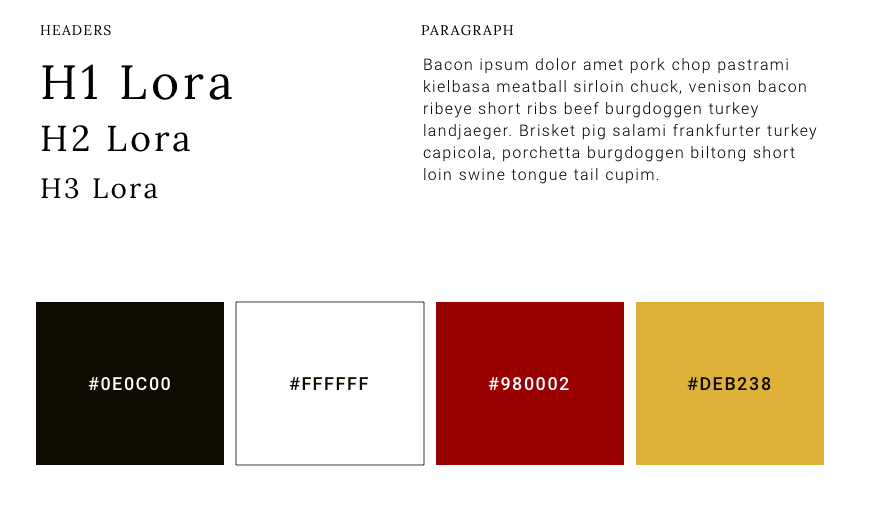
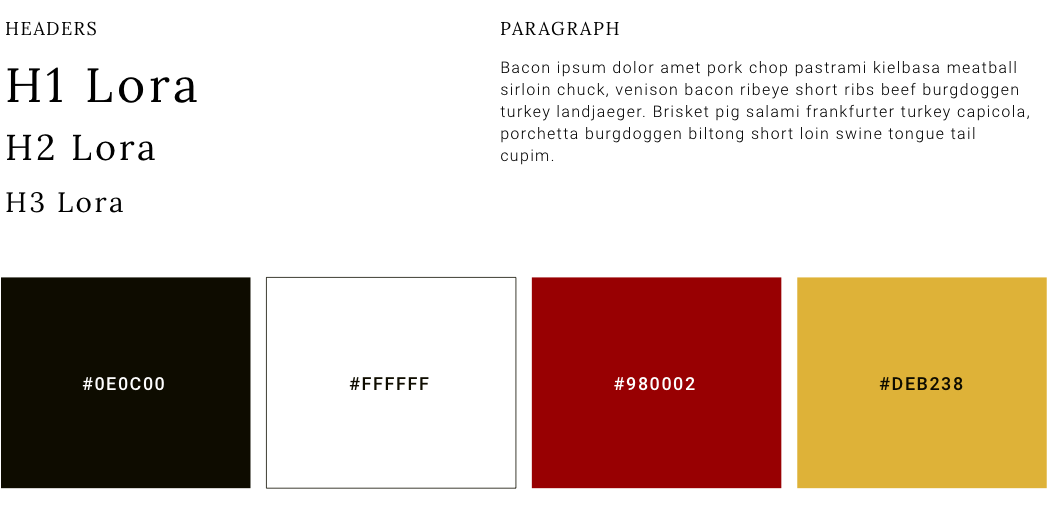
Added Case Study page assets and style

diff --git a/case-studies/your-private-eyestylist.html b/case-studies/your-private-eyestylist.html
@@ -3,6 +3,8 @@
      <head>
         <meta charset="UTF-8">
          <link href="https://fonts.googleapis.com/css?family=Maven+Pro:400,500,700|Open+Sans:300,300i,400,400i,600|Oregano" rel="stylesheet">
+         <!-- Used for Typography section --->
+         <link href="https://fonts.googleapis.com/css?family=Lora|Poppins:600|Roboto:700" rel="stylesheet">
          <link rel="stylesheet" type="text/css" href="../styles/normalize.css">
           <link rel="stylesheet" type="text/css" href="../styles/landing.css">
          <link rel="stylesheet" type="text/css" href="../styles/main.css">
@@ -236,6 +238,80 @@
                             
                          </div>  
                       </div>
+                        
+                      <div class="process-section">
+                          <h3 class="study-pad sub-section-header">Mockups</h3>
+                          <h5 class="study-pad mockups">Color Psychology</h5>
+                          <p class="study-pad">I chose black because it’s associated with elegance and sophistication, white for it’s cleanliness and purity, and red as an accent color for vibrance and energy. </p>
+                          
+                          <h5 class="study-pad mockups">Typography</h5>
+                          <p class="study-pad">In keeping with design goals, I presented three typography palettes for the client to choose from.  The first was a serif font called Lora for headings that was paired with a sans-serif Roboto font.  I also presented a more modern look with Nunito Sans for the headings paired with Roboto. The last option featured a Poppins-Roboto pairing.  The client decided on the second option, using Nunito Sans & Roboto.</p>
+                          <div class="study-pad img-wrapper img-pad">  
+                                <img class="study-pad no-border" src="../assets/typography/Lora-Roboto.png" />
+                          </div>
+                          <div class="study-pad img-wrapper img-pad">  
+                                <img class="study-pad no-border" src="../assets/typography/NunitoSans-Roboto.png" />
+                          </div>
+                          <div class="study-pad img-wrapper img-pad">  
+                                <img class="study-pad no-border" src="../assets/typography/Poppins-Roboto.png" />
+                          </div>
+<!--
+                          <div class="study-pad typography">
+                              <div class="typo-left">
+                                  <h3 class="typo-heading lora caps">Heading</h3>
+                                  <h1 class="lora">H1 Lora</h1>
+                                  <h2 class="lora">H2 Lora</h2>
+                                  <h3 class="lora header-three">H3 Lora</h3>
+                              </div>
+                              <div class="typo-right">
+                                  <h3 class="typo-heading caps">Paragraph</h3>
+                                  <p>Bacon ipsum dolor amet pork chop pastrami kielbasa meatball sirloin chuck, venison bacon ribeye short ribs beef burgdoggen turkey landjaeger. Brisket pig salami frankfurter turkey capicola, porchetta burgdoggen biltong short loin swine tongue tail cupim</p>
+                              </div>
+                             
+                              
+                         </div>
+-->
+                          <p class="study-pad">Mockup type 1 uses the Lora - Roboto pairing.</p>
+                          <div class="study-pad img-wrapper img-pad">  
+                                <img class="study-pad" src="../assets/mocks/Layout1-Lara-Roboto-v1-case-study.png" />
+                          </div>
+                          
+                          <p class="study-pad">Mockup type 1 variation using the Nunito Sans - Roboto pairing.</p>
+                          <div class="study-pad img-wrapper img-pad">  
+                                <img class="study-pad" src="../assets/mocks/Layout1-NunitoSans-Roboto-case-study.png" />
+                          </div>
+                          
+                          <p class="study-pad">For the second mockup, I went for a more open feel that highlights the selling points of the service.  I also added transitions to the page giving it a more lively feel.</p>
+                          <div class="study-pad img-wrapper img-pad">  
+                                <img class="study-pad" src="../assets/mocks/Layout2-Lora-Roboto-case-study.png" />
+                          </div>
+                          
+                          <p class="study-pad">For the second mockup I also presented different colors, typography and hero images.</p>
+                          <div class="study-pad img-wrapper img-pad">  
+                                <img class="study-pad" src="../assets/mocks/Layout2-NunitoSans-Roboto_v2-case-study.png" />
+                          </div>
+                          
+                          <p class="study-pad">Poppin - Roboto font pairing.</p>
+                          <div class="study-pad img-wrapper img-pad">  
+                                <img class="study-pad" src="../assets/mocks/Layout2-Poppins-Roboto-case-study.png" />
+                          </div>
+                          
+                          <p class="study-pad">Nunito Sans - Roboto font pairing with a different hero image.</p>
+                          <div class="study-pad img-wrapper img-pad">  
+                                <img class="study-pad" src="../assets/mocks/Layout2-girl-down-case-study.png" />
+                          </div>
+                          
+                      </div>
+                      
+                    </div>
+                  
+                    <div class="conclusion right-pad">
+                      
+                      <h2  class="study-pad section-header">Conclusion</h2>
+                      <p   class="study-pad">I learned you need to be flexible with your client.  If they ask for a color it’s best not to just say no, but to show them why their idea doesn’t work.  I also learned that I can push my design skills further by trying different layouts. By researching current designs I was inspired to design 2 layouts that I never dreamed I would be able to do.</p>
+                      
+                      <a class="study-pad left-justify" href="https://robgrabowski.github.io/private-eyestylist/">Link to site</a>    
+                      
                       
                     </div>
               </div>

diff --git a/styles/main.css b/styles/main.css
@@ -65,7 +65,7 @@ body{
     padding-left: 100px;
     padding-right: 100px;
 }
-.problem h2, .solution h2, .process h2{
+.problem h2, .solution h2, .process h2, .conclusion h2{
     padding-top: 80px;
 }
 .section-header{
@@ -79,19 +79,19 @@ body{
     margin-top: 0;
     
 }
-.problem p, .solution p, .solution a, .process p, .study-results li{
+.problem p, .solution p, .solution a, .process p, .study-results li, .conclusion p, .conclusion a{
     font-family: 'Open Sans', sans-serif;
     font-weight: 300;
     font-size: 1.2em;
     letter-spacing: 1.37px;
     line-height: 1.5;
 }
-.solution{
+.solution, .conclusion{
     background-color: #253149;
     color: #fff;
     min-height: 1200px;
 }
-.solution h2, .solution p, .solution a{
+.solution h2, .solution p, .solution a, .conclusion h2, .conclusion p, .conclusion a{
     color: #fff;
 }
 .solution img{
@@ -99,7 +99,7 @@ body{
     margin: auto;
     padding-top: 20px;
 }
-.solution a, .solution a:hover{
+.solution a, .solution a:hover, .conclusion a, .conclusion a:hover{
     text-align: center;
     width: 100%;
     margin: auto;
@@ -122,6 +122,15 @@ body{
     font-size: 1.2em;
     letter-spacing: 1.37px;
     line-height: 1.5;
+}
+.process .mockups{
+    font-family: 'Open Sans', sans-serif;
+    font-weight: 300;
+    font-size: 1.1em;
+    letter-spacing: 2px;
+    line-height: 1.5;
+    text-transform: uppercase;
+    padding-top: 20px;
 }
 .sub-section-header{
     padding-bottom: 10px;
@@ -197,3 +206,55 @@ body{
     padding-left: 10%;
     font-weight: 300;
 }
+.typography{
+    display: inline-block;
+    width: 90%;
+}
+.lora{
+    font-family: 'Lora', serif;
+    font-weight: 400;
+}
+.caps{
+    text-transform: uppercase;
+    font-style: inherit;
+}
+.img-pad {
+    padding-top: 20px;
+}
+.left-justify{
+    text-align: center;
+}
+/*
+.typography h1{
+    font-size: 2em;
+    
+}
+.typography h2{
+    font-size: 1.5em;
+    padding-top: 0;
+}
+.typography h3{
+    font-size: 1.3em;
+}
+.typography .header-three{
+    font-family: 'Lora', serif;
+    font-weight: 400;
+    font-style: inherit;
+}
+.typography p{
+    font-family: 'Roboto', sans-serif;
+    font-size: 1.2em;
+}
+.typography .typo-left{
+    float: left;
+    width: 50%;
+    display: inline-block;
+    padding-left: 10%;
+}
+
+.typography .typo-right{
+    float: right;
+    width: 50%;
+    display: inline-block;
+}
+*/
